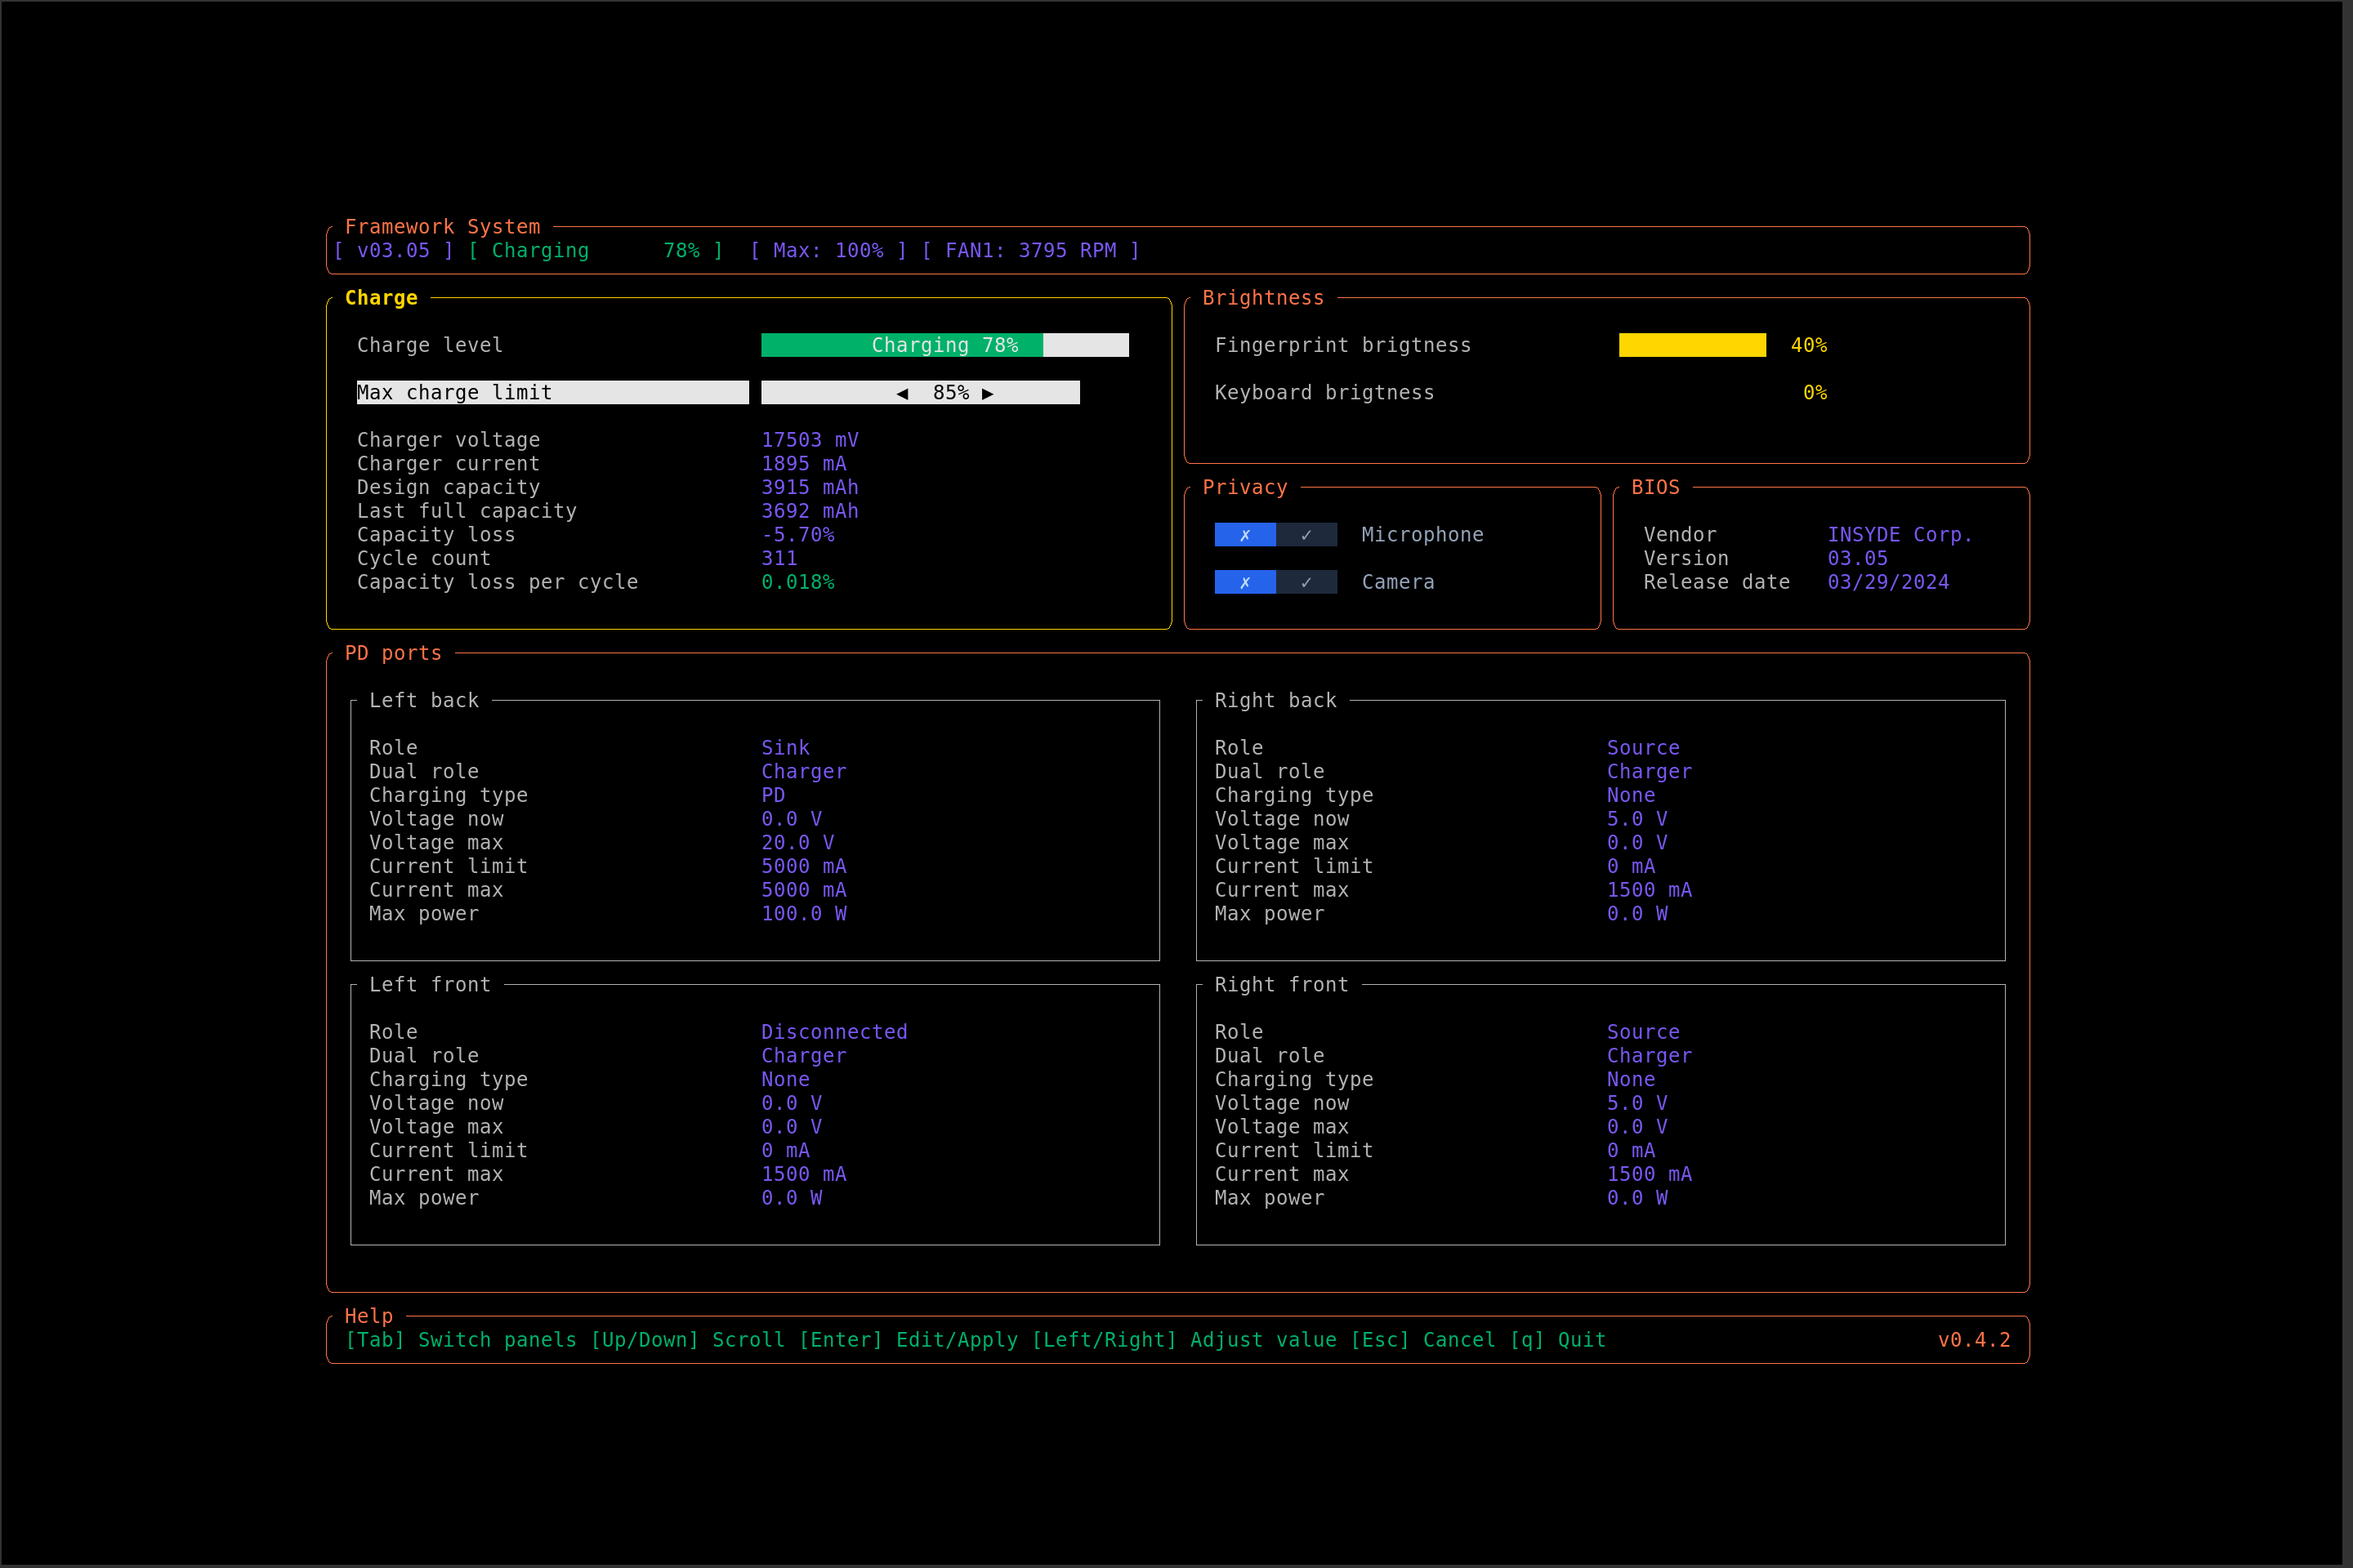
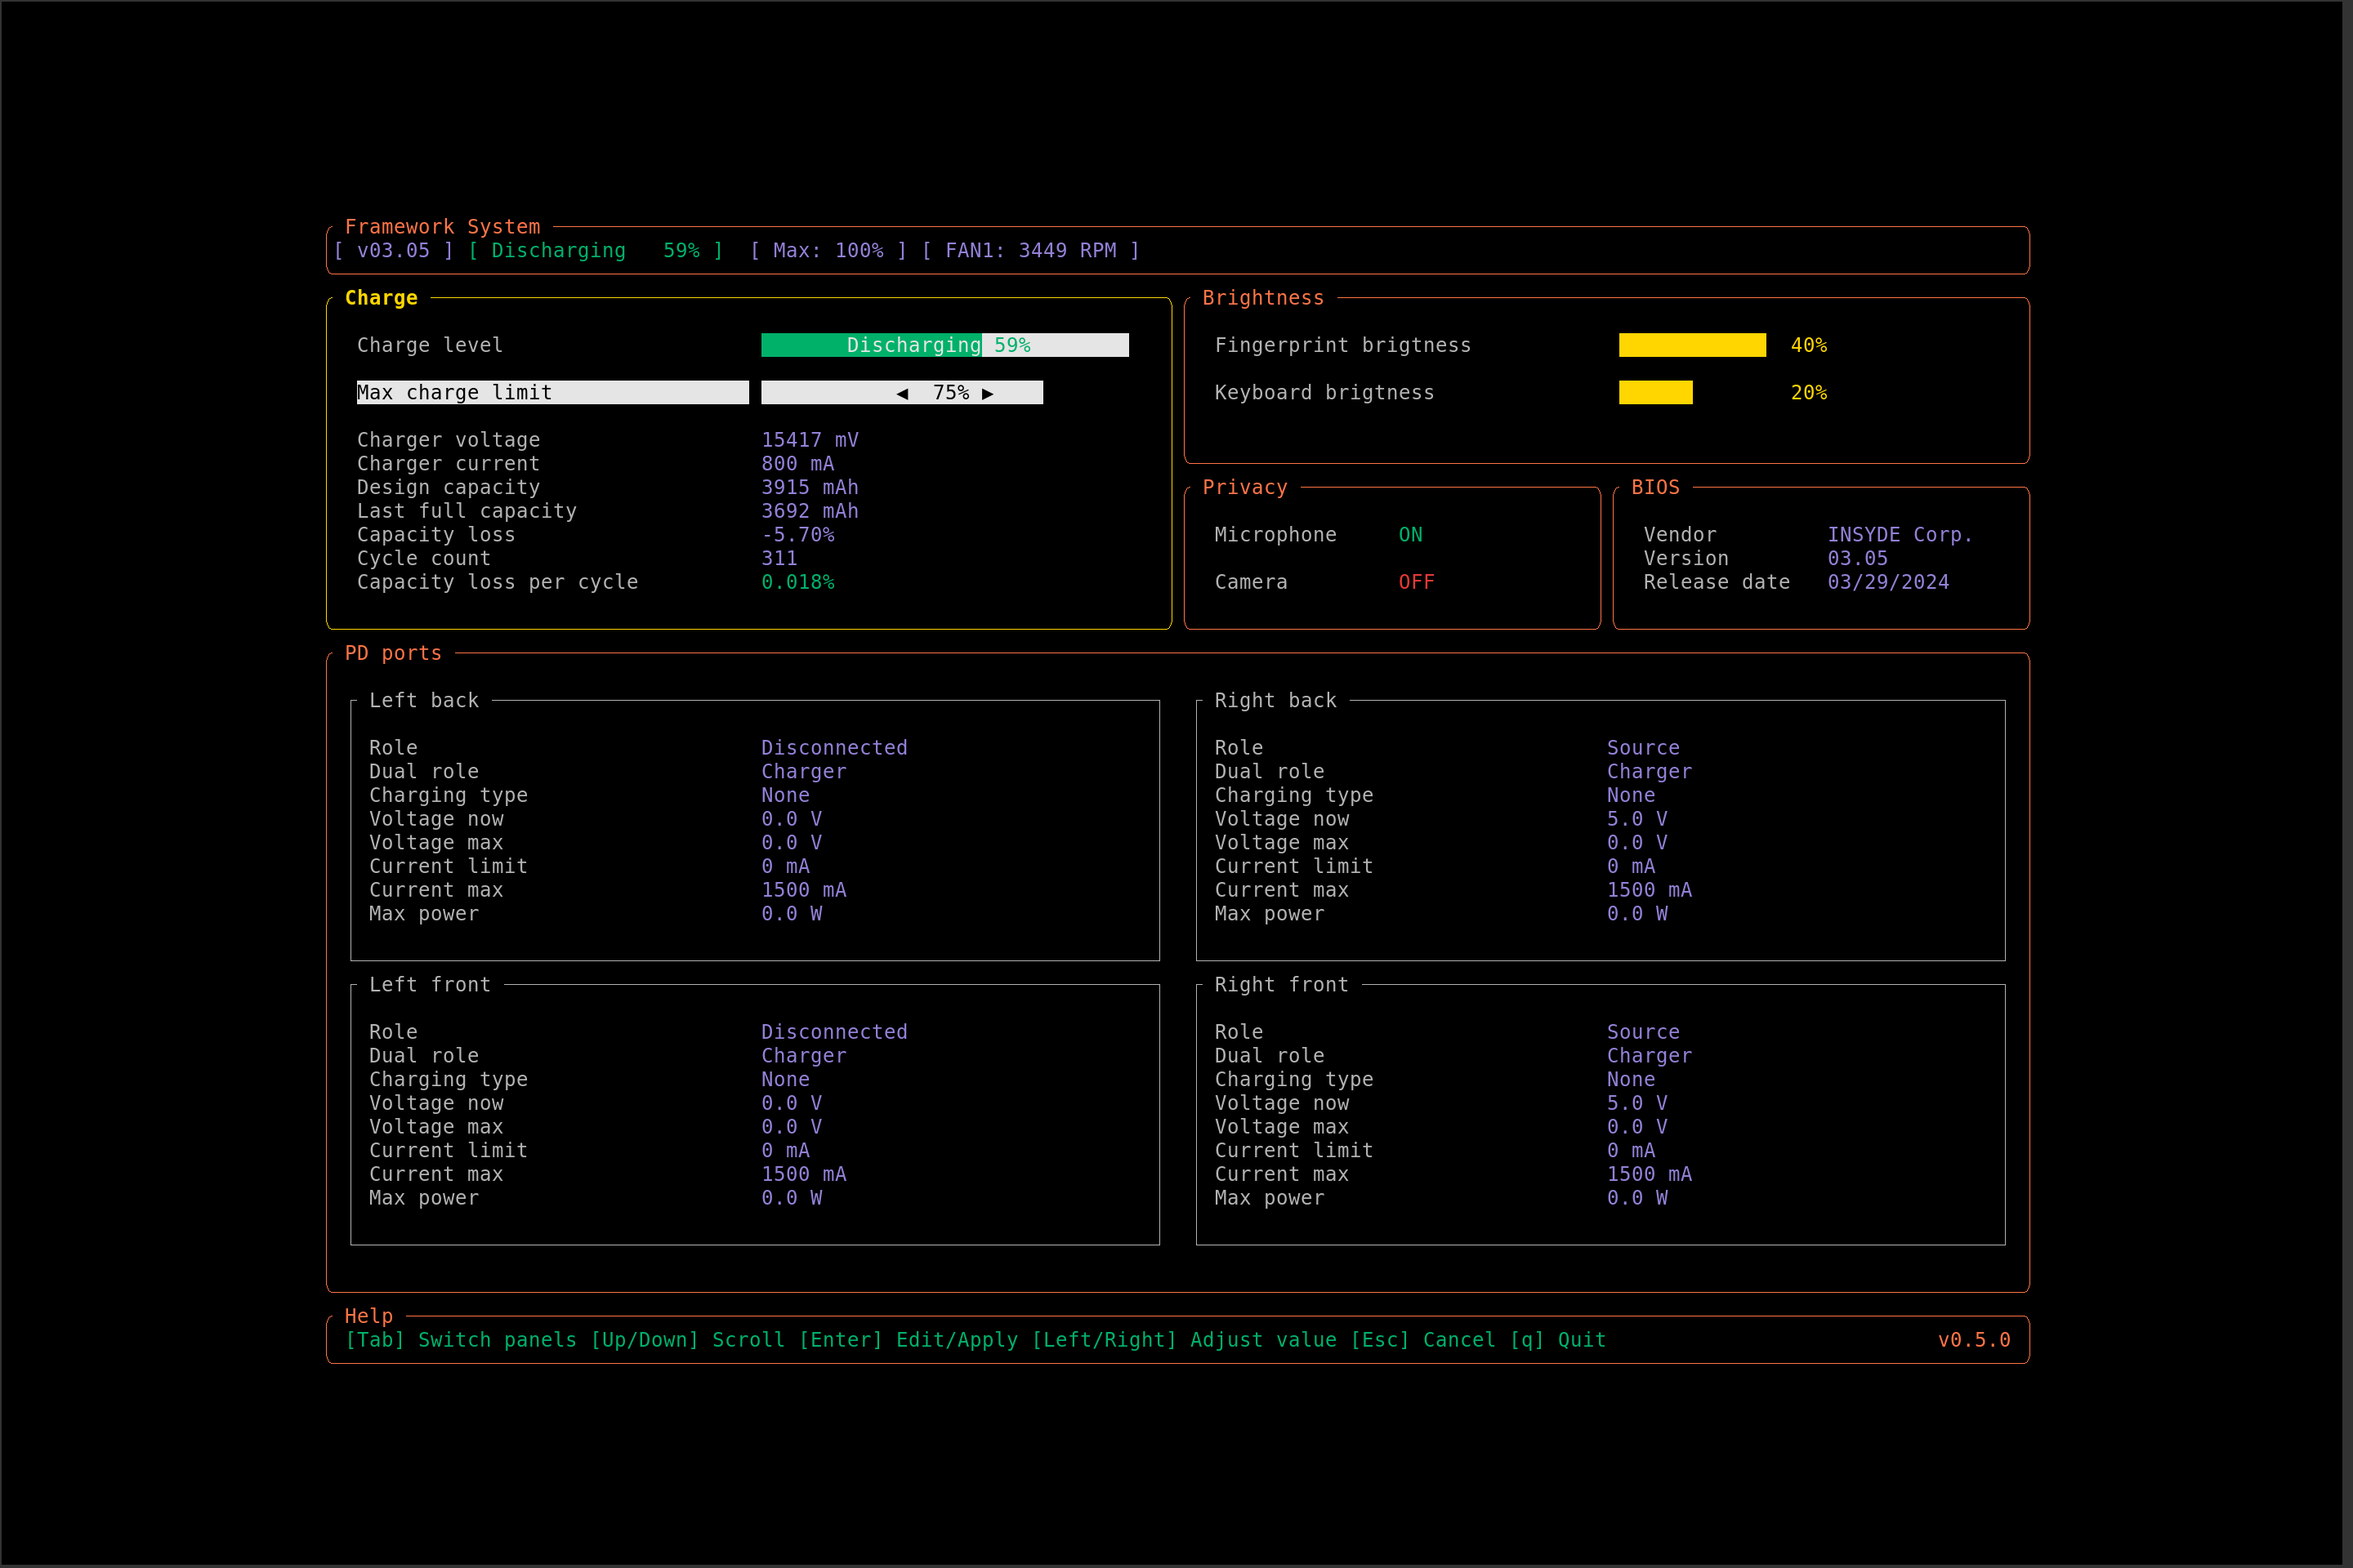
Bump cargo version 0.5.0 (#22)
* Bump cargo version to 0.5.0

* Slighly change the color scheme

* Update README and screenshots

diff --git a/src/tui/theme.rs b/src/tui/theme.rs
@@ -29,9 +29,9 @@ impl Theme {
             indication_ok: Color::from_str("#00B16A").unwrap(),
             indication_warning: Color::from_str("#E53935").unwrap(),
             brightness_bar: Color::from_str("#FFD600").unwrap(),
-            charge_bar: Color::from_str("#7957F3").unwrap(),
+            charge_bar: Color::from_str("#9481D8").unwrap(),
             highlighted_text: Color::from_str("#FF7447").unwrap(),
-            informative_text: Color::from_str("#7957F3").unwrap(),
+            informative_text: Color::from_str("#9481D8").unwrap(),
         }
     }
 }

diff --git a/README.md b/README.md
@@ -2,20 +2,20 @@
 
 ![Rust](https://img.shields.io/badge/lang-rust-orange) ![ratatui](https://img.shields.io/badge/ui-ratatui-blue) ![Framework Laptop](https://img.shields.io/badge/hardware-Framework--Laptop-success)  
 
-A terminal dashboard for controlling and monitoring your Framework Laptop hardware — charging, privacy, lighting, USB PD, and more — via direct API calls.
+A snappy TUI dashboard for controlling and monitoring your Framework Laptop hardware — charging, privacy, lighting, USB PD ports, and more.
 
-## Features
+## :octocat: Features
 
-- [x] **Live battery status** with limits and charging controls
+### Framework Laptop Hardware
+
+- [x] **Live battery and charge status** with limits and charging controls
 - [x] **Privacy toggles** for microphone & camera
 - [ ] **Input Deck Mode** selector (Framework 16)
 - [x] **Keyboard & Fingerprint brightness** controls
-- [x] **USB PD port monitoring & reset**
-- [x] **Fan RPM and target setting**
+- [x] **USB PD port monitoring**
+- [x] **Fan RPM**
 - [ ] **Thermal info:** CPU/GPU temperatures
 - [x] **System info:** BIOS details
-- [ ] **Log pane** for executed actions and errors
-- [x] **Accessible:** All controls visible at once, rapid navigation via keyboard
 
 ## Screenshots
 
@@ -58,7 +58,7 @@ sudo emerge -av app-laptop/framework-tool-tui
 ```
 
 
-## Run
+## :man: Run
 
 It needs to be running with root privileges to access hardware controls.
 
@@ -66,17 +66,46 @@ It needs to be running with root privileges to access hardware controls.
 sudo framework-tool-tui
 ```
 
-## Architecture
+## :pencil: Architecture
 
 See [ARCHITECTURE.md](docs/ARCHITECTURE.md) for full technical breakdown.  
-- Modular panel rendering and state management ([`src/app.rs`](src/app.rs:1), [`src/framework.rs`](src/framework.rs:1))
 - Hardware polling via [`framework_lib`](https://github.com/FrameworkComputer/framework-system)
-- Keyboard shortcuts and instant updates
 
-## Contributing
+## :handshake: Contributing
 
 Pull requests welcome! For bug reports or feature requests, see Issues.
 
-## License
+### Technical stack
+
+- [ratatui](https://ratatui.rs)
+- [tokio](https://tokio.rs)
+- [framework_lib](https://github.com/FrameworkComputer/framework-system/tree/main/framework_lib)
+
+## :judge: License
+
+```
+MIT License
+
+Copyright (c) 2025 Mykhailo Nedokushev
+
+Permission is hereby granted, free of charge, to any person obtaining a copy
+of this software and associated documentation files (the "Software"), to deal
+in the Software without restriction, including without limitation the rights
+to use, copy, modify, merge, publish, distribute, sublicense, and/or sell
+copies of the Software, and to permit persons to whom the Software is
+furnished to do so, subject to the following conditions:
+
+The above copyright notice and this permission notice shall be included in all
+copies or substantial portions of the Software.
+
+THE SOFTWARE IS PROVIDED "AS IS", WITHOUT WARRANTY OF ANY KIND, EXPRESS OR
+IMPLIED, INCLUDING BUT NOT LIMITED TO THE WARRANTIES OF MERCHANTABILITY,
+FITNESS FOR A PARTICULAR PURPOSE AND NONINFRINGEMENT. IN NO EVENT SHALL THE
+AUTHORS OR COPYRIGHT HOLDERS BE LIABLE FOR ANY CLAIM, DAMAGES OR OTHER
+LIABILITY, WHETHER IN AN ACTION OF CONTRACT, TORT OR OTHERWISE, ARISING FROM,
+OUT OF OR IN CONNECTION WITH THE SOFTWARE OR THE USE OR OTHER DEALINGS IN THE
+SOFTWARE.
+
+```
 
 See [LICENSE](LICENSE) and [Cargo.toml](Cargo.toml:1) for license & dependencies.
